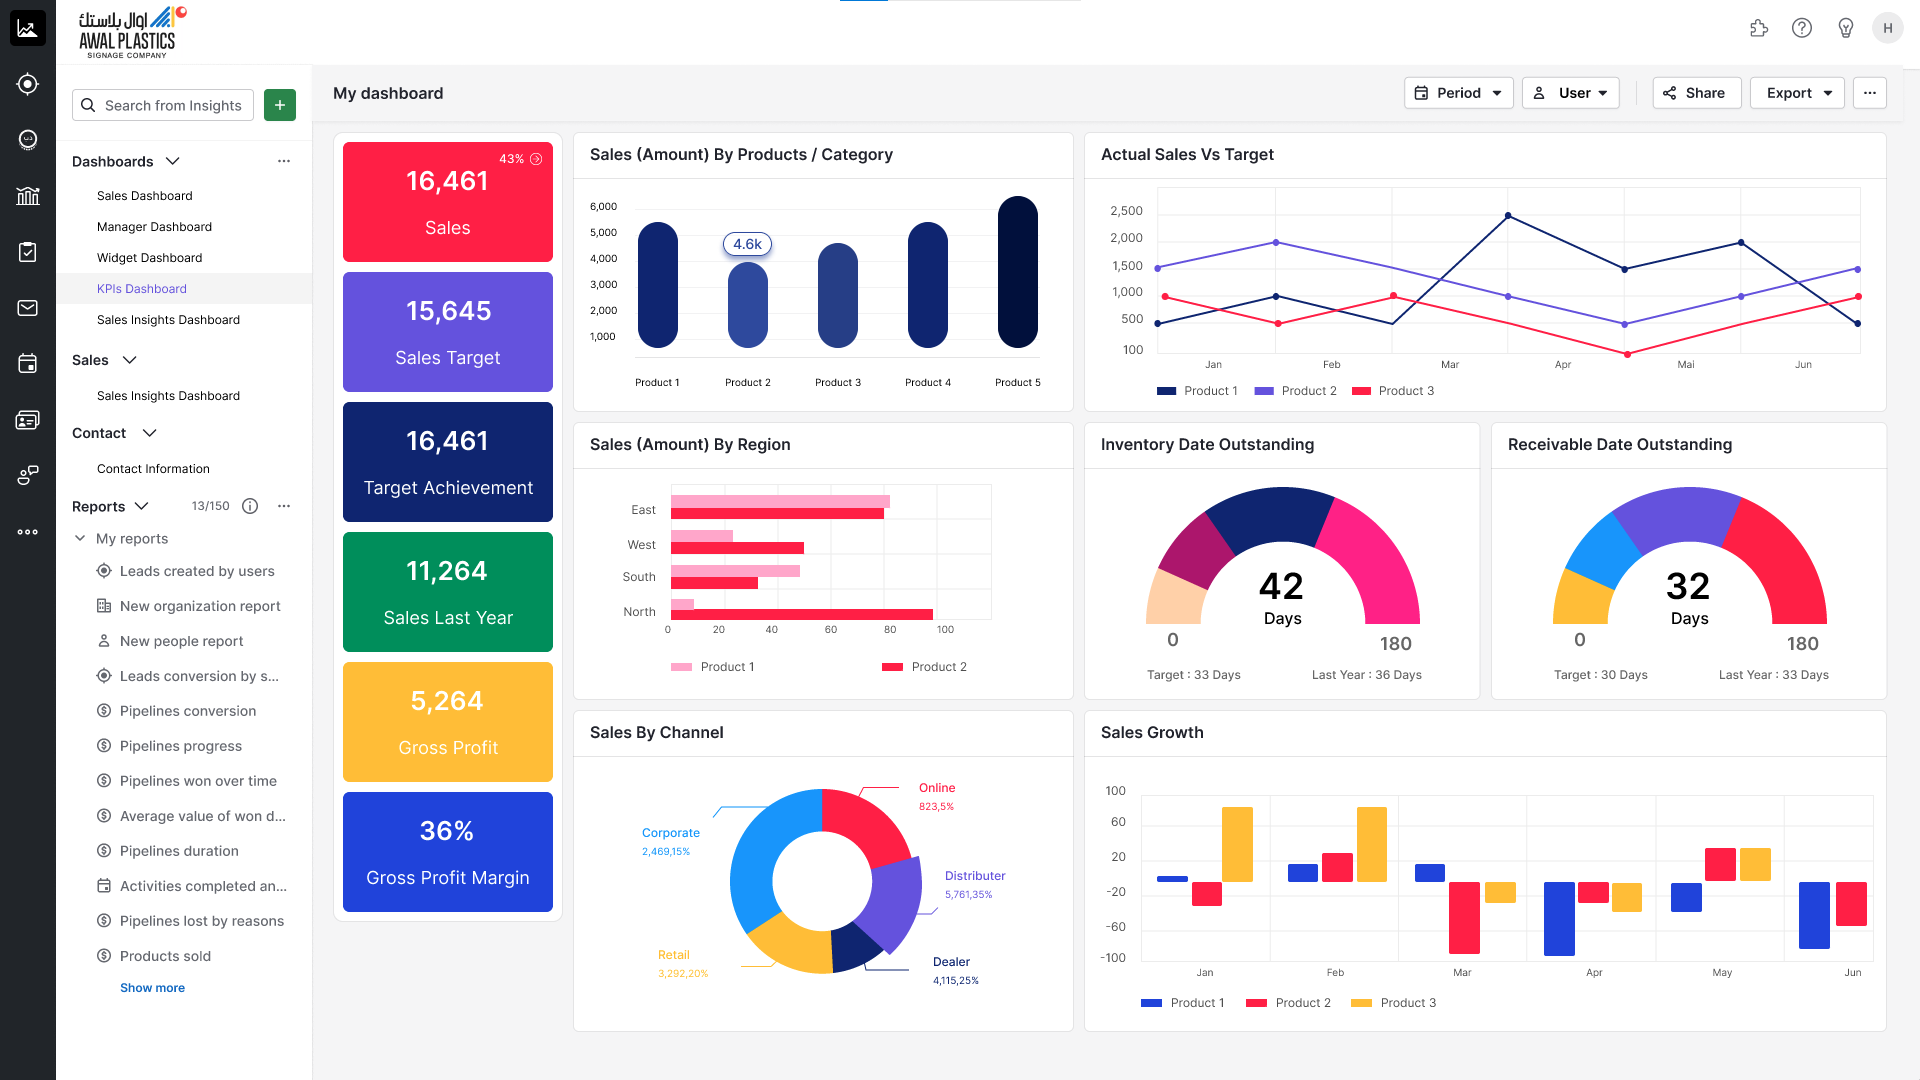
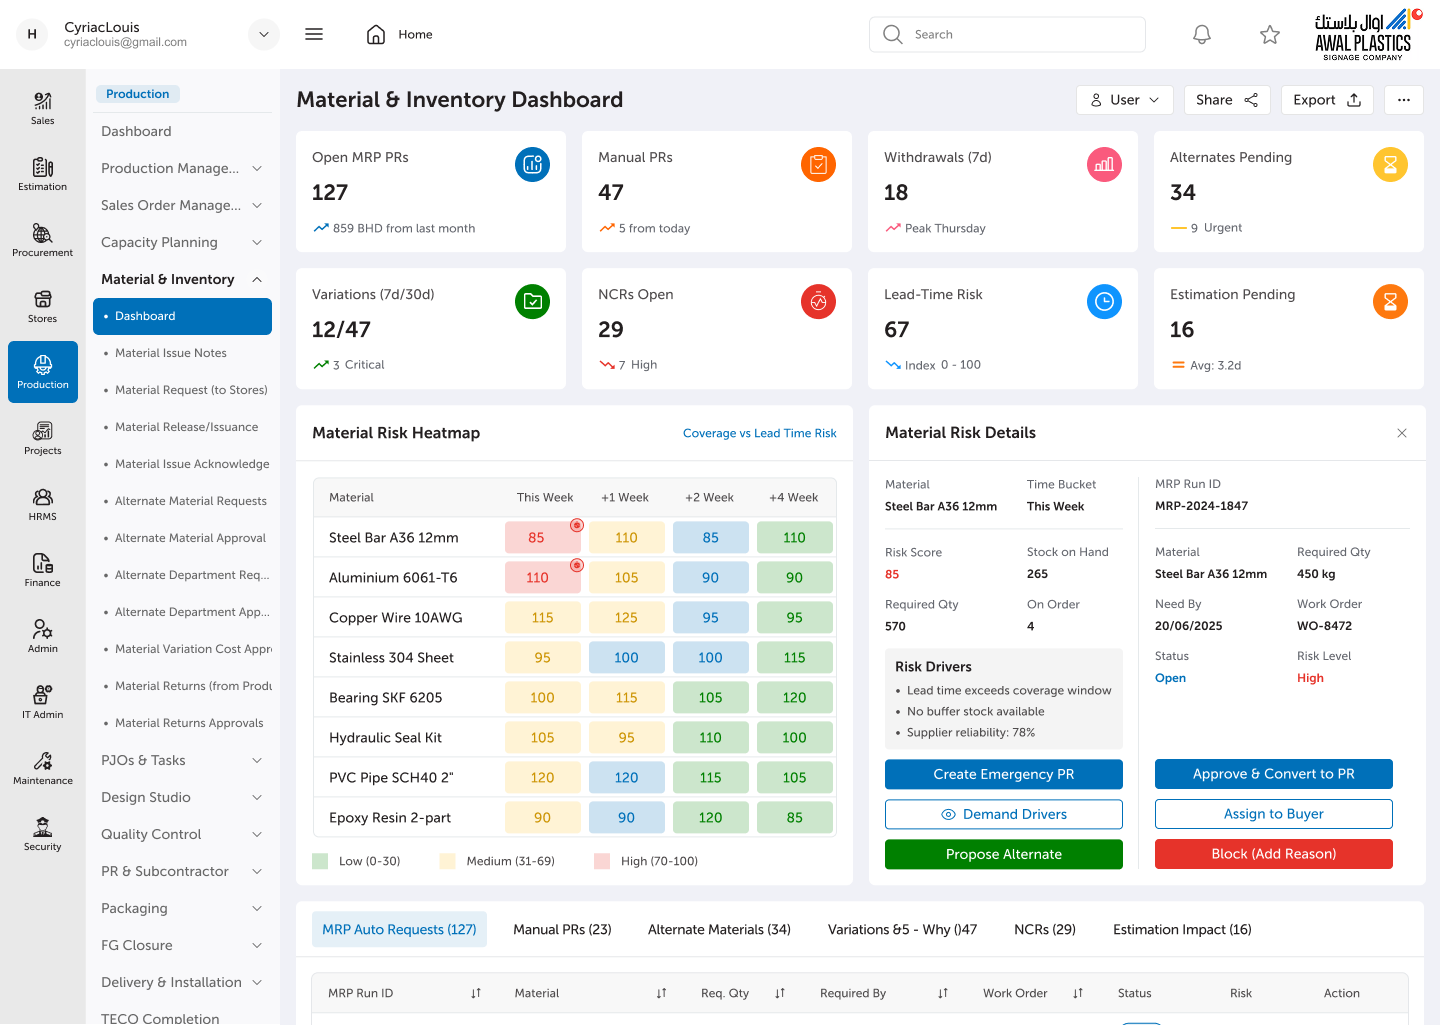
feat: create navigation, project lists, app entry, and hero components

diff --git a/my-project/src/components/hero.jsx b/my-project/src/components/hero.jsx
@@ -62,6 +62,9 @@ import trinity from "../assets/projects/trinity.png";
 import phoneix from "../assets/projects/phoneix.png";
 import winter from "../assets/projects/winter.png";
 
+// Project Preview Images - Web Development
+import aspirelens from "../assets/projects/aspirelenss.png";
+
 // Themes Config
 const themeStyles = {
     win98: {
@@ -508,15 +511,23 @@ export default function Hero() {
                         <div className="p-4 flex flex-col h-full bg-[#f8f8f8] text-black">
                             <div className="flex justify-between items-center text-xs font-mono border-b border-gray-300 pb-2 mb-4 select-none">
                                 <span>Select a portfolio category directory to open previews</span>
-                                <span className="text-gray-400">3 folders found</span>
+                                <span className="text-gray-400">4 folders found</span>
                             </div>
 
-                            <div className="grid grid-cols-3 gap-4 overflow-y-auto p-1 flex-1">
+                            <div className="grid grid-cols-2 sm:grid-cols-4 gap-4 overflow-y-auto p-1 flex-1">
                                 <ProjectFolderIcon
                                     label="UI_UX_Design"
                                     imgSrc={uiux}
                                     onClick={() => {
                                         setSelectedProjCat("uiux");
+                                        openApp("projDetail");
+                                    }}
+                                />
+                                <ProjectFolderIcon
+                                    label="Web_Development"
+                                    imgSrc={aspirelens}
+                                    onClick={() => {
+                                        setSelectedProjCat("webdev");
                                         openApp("projDetail");
                                     }}
                                 />
@@ -862,14 +873,22 @@ export default function Hero() {
                                 <div className="p-3 bg-[#f8f8f8] text-black">
                                     <div className="text-[10px] font-mono border-b border-gray-300 pb-1.5 mb-3 flex justify-between">
                                         <span>Select category directory:</span>
-                                        <span className="text-gray-400">3 folders</span>
+                                        <span className="text-gray-400">4 folders</span>
                                     </div>
-                                    <div className="grid grid-cols-3 gap-2.5">
+                                    <div className="grid grid-cols-2 sm:grid-cols-4 gap-2.5">
                                         <ProjectFolderIcon
                                             label="UI_UX"
                                             imgSrc={uiux}
                                             onClick={() => {
                                                 setSelectedProjCat("uiux");
+                                                openApp("projDetail");
+                                            }}
+                                        />
+                                        <ProjectFolderIcon
+                                            label="Web_Dev"
+                                            imgSrc={aspirelens}
+                                            onClick={() => {
+                                                setSelectedProjCat("webdev");
                                                 openApp("projDetail");
                                             }}
                                         />
@@ -1082,7 +1101,26 @@ export default function Hero() {
                                     </span>
                                     <div>
                                         <span className="font-bold text-xs block text-black">UI/UX Design Projects</span>
-                                        <span className="text-[9px] text-gray-500">12 Enterprise & SaaS Layouts</span>
+                                        <span className="text-[9px] text-gray-500">11 Enterprise & SaaS Layouts</span>
+                                    </div>
+                                </div>
+                                <span className="text-[10px] font-bold text-[#FF4D00]">Open ➔</span>
+                            </button>
+
+                            <button
+                                onClick={() => {
+                                    setSelectedProjCat("webdev");
+                                    openApp("projDetail");
+                                }}
+                                className="flex items-center justify-between p-2 bg-gray-50 hover:bg-gray-100 border border-black rounded text-left"
+                            >
+                                <div className="flex items-center gap-2">
+                                    <span className="w-8 h-8 rounded overflow-hidden border border-black shrink-0">
+                                        <img src={aspirelens} alt="Web Dev" className="w-full h-full object-cover" />
+                                    </span>
+                                    <div>
+                                        <span className="font-bold text-xs block text-black">Web Development</span>
+                                        <span className="text-[9px] text-gray-500">Live Client Platforms</span>
                                     </div>
                                 </div>
                                 <span className="text-[10px] font-bold text-[#FF4D00]">Open ➔</span>
@@ -1610,7 +1648,7 @@ const ProjectDetailsView = ({ cat, onClose, onOpenGallery, onExpandImage }) => {
                 { name: "Travel Guide (HAJJ Travel)", type: "Travel & Tourism App", url: "https://www.behance.net/gallery/254786435/Travel-Tourism" },
                 { name: "QODORA (Medical Insurance)", type: "Medical Insurance App Prototype", url: "https://www.behance.net/gallery/250527775/Qodora" },
                 { name: "Solar Energy Management", type: "Energy Management Dashboard", url: "https://www.behance.net/gallery/254784961/Solar-Energy-Management" },
-                { name: "Signex (Enterprise)", type: "Enterprise ERP Dashboard Case", url: "https://www.behance.net/gallery/237202087/Signex-ERP-App-UIUX-Product-Design-Case-Study" },
+                { name: "Awal Plastics (Enterprise)", type: "Enterprise ERP Dashboard Case", url: "https://www.behance.net/gallery/237202087/Signex-ERP-App-UIUX-Product-Design-Case-Study" },
                 { name: "Sports Reform", type: "Sports Performance Web Wires", url: "https://www.behance.net/gallery/205963977/Sports-Reform-website-ui-design" },
                 { name: "Guvi Learning Platform", type: "EdTech Learning Platform", url: "https://www.behance.net/gallery/240490215/Learning-Course-Landing-Page" },
                 { name: "Lightup Temple (Booking Pooja)", type: "SaaS Temple Booking Portal", url: "https://www.behance.net/gallery/205956803/Lightup-Temples-website-ui-design" },
@@ -1634,6 +1672,14 @@ const ProjectDetailsView = ({ cat, onClose, onOpenGallery, onExpandImage }) => {
             items: [
                 { name: "Winter Falls", type: "Low poly animation ", url: "https://drive.google.com/file/d/1bY_IJ9-j5qRLcUO70GuiEmp907Z-wI4F/view" },
                 { name: "Phoneix Bird", type: "Low poly animation ", url: "https://drive.google.com/file/d/1fvthm8s8gaUEzqzAE-cF-PADXcgndxEi/view" }
+            ]
+        },
+        webdev: {
+            title: "Web Development Projects",
+            desc: "Responsive web applications, modern front-end platforms, and live client websites engineered with high performance and interactive UX.",
+            cover: aspirelens,
+            items: [
+                { name: "Aspire Lens", type: "School Photography Platform", url: "https://www.aspirelens.com/" }
             ]
         }
     };
@@ -1720,7 +1766,7 @@ const CategoryGalleryView = ({ cat, onClose, onExpandImage }) => {
                 { name: "Travel Guide (HAJJ Travel)", type: "Travel & Tourism App", url: "https://www.behance.net/gallery/254786435/Travel-Tourism", img: hajj, tag: "Travel" },
                 { name: "QODORA (Medical Insurance)", type: "Medical Insurance App Prototype", url: "https://www.behance.net/gallery/250527775/Qodora", img: qodora, tag: "Medical" },
                 { name: "Solar Energy Management", type: "Energy Management Dashboard", url: "https://www.behance.net/gallery/254784961/Solar-Energy-Management", img: solar, tag: "Dashboard" },
-                { name: "Signex (Enterprise)", type: "Enterprise ERP Dashboard Case", url: "https://www.behance.net/gallery/237202087/Signex-ERP-App-UIUX-Product-Design-Case-Study", img: awalPlastics, tag: "ERP" },
+                { name: "Awal Plastics (Enterprise)", type: "Enterprise ERP Dashboard Case", url: "https://www.behance.net/gallery/237202087/Signex-ERP-App-UIUX-Product-Design-Case-Study", img: awalPlastics, tag: "ERP" },
                 { name: "Sports Reform", type: "Sports Performance Web Wires", url: "https://www.behance.net/gallery/205963977/Sports-Reform-website-ui-design", img: sports, tag: "Sports" },
                 { name: "Guvi Learning Platform", type: "EdTech Learning Platform", url: "https://www.behance.net/gallery/240490215/Learning-Course-Landing-Page", img: kuvi, tag: "EdTech" },
                 { name: "Lightup Temple (Booking Pooja)", type: "SaaS Temple Booking Portal", url: "https://www.behance.net/gallery/205956803/Lightup-Temples-website-ui-design", img: lightup, tag: "SaaS" },
@@ -1751,6 +1797,13 @@ const CategoryGalleryView = ({ cat, onClose, onExpandImage }) => {
             items: [
                 { name: "Phoneix Bird", type: "Blender Asset Pack Modeling", url: "https://drive.google.com/file/d/1fvthm8s8gaUEzqzAE-cF-PADXcgndxEi/view?usp=sharing", img: phoneix, tag: "3D Mesh" },
                 { name: "Winter Scene", type: "Low-Poly Environment Scene", url: "https://drive.google.com/file/d/1bY_IJ9-j5qRLcUO70GuiEmp907Z-wI4F/view?usp=sharing", img: winter, tag: "Renders" }
+            ]
+        },
+        webdev: {
+            title: "Web Development Projects",
+            desc: "Responsive web applications, modern front-end platforms, and live client websites engineered with high performance and interactive UX.",
+            items: [
+                { name: "Aspire Lens", type: "School Photography Platform", url: "https://www.aspirelens.com/", img: aspirelens, tag: "Live Site" }
             ]
         }
     };

diff --git a/my-project/src/components/nav.jsx b/my-project/src/components/nav.jsx
@@ -10,7 +10,7 @@ const SEARCH_INDEX = [
     { name: "Travel Guide (HAJJ Travel)", path: "https://www.behance.net/gallery/254786435/Travel-Tourism", category: "UI/UX Design", description: "Hajj travel guide mobile app screens & map workflow" },
     { name: "QODORA (Medical Insurance)", path: "https://www.behance.net/gallery/250527775/Qodora", category: "UI/UX Design", description: "Medical insurance prototype & checkout flows" },
     { name: "Solar Energy Management", path: "https://www.behance.net/gallery/254784961/Solar-Energy-Management", category: "UI/UX Design", description: "Battery tracking & solar generation metric dashboard" },
-    { name: "Signex (Enterprise)", path: "https://www.behance.net/gallery/237202087/Signex-ERP-App-UIUX-Product-Design-Case-Study", category: "UI/UX Design", description: "Enterprise ERP product and signage dashboard case study" },
+    { name: "Awal Plastics (Enterprise)", path: "https://www.behance.net/gallery/237202087/Signex-ERP-App-UIUX-Product-Design-Case-Study", category: "UI/UX Design", description: "Enterprise ERP product and signage dashboard case study" },
     { name: "Sports Reform", path: "https://www.behance.net/gallery/205963977/Sports-Reform-website-ui-design", category: "UI/UX Design", description: "Sports performance dashboard and wireframe layouts" },
     { name: "Guvi Learning Platform", path: "https://www.behance.net/gallery/240490215/Learning-Course-Landing-Page", category: "UI/UX Design", description: "EdTech course portal & registration landing page" },
     { name: "Lightup Temple (Booking Pooja)", path: "https://www.behance.net/gallery/205956803/Lightup-Temples-website-ui-design", category: "UI/UX Design", description: "SaaS booking engine for pooja and spiritual services" },
@@ -34,9 +34,13 @@ const SEARCH_INDEX = [
     { name: "Phoneix Bird", path: "https://drive.google.com/file/d/1fvthm8s8gaUEzqzAE-cF-PADXcgndxEi/view?usp=sharing", category: "3D Animation", description: "Blender asset pack 3D mesh modeling rendering" },
     { name: "Winter Environment", path: "https://drive.google.com/file/d/1bY_IJ9-j5qRLcUO70GuiEmp907Z-wI4F/view?usp=sharing", category: "3D Animation", description: "Low-poly environment render & Blender meshes" },
 
+    // Web Development
+    { name: "Aspire Lens", path: "https://www.aspirelens.com/", category: "Web Development", description: "Integrated online school photography platform and client portal" },
+
     // Pages & Resume
     { name: "Resume & Professional CV", path: "/resume", category: "Resume", description: "Retro resume reader app, skills index & pdf download" },
     { name: "UI/UX Projects Collection", path: "/uidesigns", category: "Gallery", description: "Explore full index of design files and casing" },
+    { name: "Web Development Projects", path: "/webdevelopment", category: "Gallery", description: "Explore full index of live web apps and client platforms" },
     { name: "Motion Graphic Showcase", path: "/motiondesigns", category: "Gallery", description: "Explore full vector animations and clips list" },
     { name: "3D Blender Work", path: "/3ddesigns", category: "Gallery", description: "Explore static Blender meshes and renders" },
 
@@ -58,6 +62,8 @@ const getCategoryDetails = (category) => {
             return { color: "text-[#ff4a7d] bg-[#ff4a7d]/10 border-[#ff4a7d]/30", icon: "🎬" };
         case "3D Animation":
             return { color: "text-[#ffcc00] bg-[#ffcc00]/10 border-[#ffcc00]/30", icon: "🧊" };
+        case "Web Development":
+            return { color: "text-[#10b981] bg-[#10b981]/10 border-[#10b981]/30", icon: "🌐" };
         case "Resume":
             return { color: "text-[#39ff14] bg-[#39ff14]/10 border-[#39ff14]/30", icon: "📄" };
         case "Skills":

diff --git a/my-project/src/projectslist/webdevelopment.jsx b/my-project/src/projectslist/webdevelopment.jsx
@@ -1,0 +1,48 @@
+import { Link } from "react-router-dom";
+import { useCursor } from "../context/CursorContext";
+import aspirelens from "../assets/projects/aspirelenss.png";
+import ArrowBackIcon from '@mui/icons-material/ArrowBack';
+
+const projects = [
+    {
+        name: "Aspire Lens",
+        link: "https://www.aspirelens.com/",
+        img: aspirelens,
+        category: "School Photography Platform"
+    }
+];
+
+export default function WebDevelopment() {
+    const { setCursorVariant } = useCursor();
+    return (
+        <section>
+            {/* PROJECT CARDS */}
+            <div className="flex flex-col items-center justify-center pt-24 sm:pt-24 md:pt-6">
+                <Link to="/" className="flex items-center gap-2"><ArrowBackIcon /> Go Back</Link><br />
+                <div>
+                    <h1 className="text-4xl md:text-6xl font-bold text-black dark:text-white text-center">My Casing</h1>
+                    <p className="mt-10 text-4xl md:text-4xl font-bold text-[#FF4D00] text-center">Web Development</p>
+                </div>
+                <div className="my-10 grid grid-cols-1 md:grid-cols-2 lg:grid-cols-3 xl:grid-cols-4 gap-10 w-full max-w-none px-6 md:px-16 justify-items-center">
+                    {projects.map((project, index) => (
+                        <a
+                            key={index}
+                            href={project.link}
+                            target="_blank"
+                            rel="noopener noreferrer"
+                            onMouseEnter={() => setCursorVariant("link")}
+                            onMouseLeave={() => setCursorVariant("default")}
+                            className="hover:cursor-none w-full flex justify-center"
+                        >
+                            <div className="bg-[#000000]/0 hover:bg-[#000000]/4 dark:hover:bg-[#ffffff]/10 p-4 rounded-lg hover:scale-105 transition-all flex flex-col items-center justify-center gap-2 w-full max-w-[400px]">
+                                <img className="w-full h-[220px] object-cover rounded-lg" src={project.img} alt={project.name} />
+                                <h2 className="text-2xl font-bold text-black dark:text-white text-center">{project.name}</h2>
+                                <p className="text-sm text-gray-600 dark:text-gray-300">{project.category}</p>
+                            </div>
+                        </a>
+                    ))}
+                </div>
+            </div>
+        </section>
+    );
+}

diff --git a/my-project/src/projectslist/uidesigns.jsx b/my-project/src/projectslist/uidesigns.jsx
@@ -4,8 +4,6 @@ import awalPlastics from "../assets/projects/awal.png";
 import caretaker from "../assets/projects/caretaker.png";
 import eedu from "../assets/projects/eeducation.png";
 import ehos from "../assets/projects/ehospital.png";
-import mist from "../assets/projects/mistnov.png";
-import algominds from "../assets/projects/algomind.png";
 import sports from "../assets/projects/sportsref.png";
 import lightup from "../assets/projects/lightup.png";
 import kuvi from "../assets/projects/kuvi.png";
@@ -13,15 +11,14 @@ import qodora from "../assets/projects/Qodora.png";
 import solar from "../assets/projects/solar.png";
 import hajj from "../assets/projects/hajj.png";
 import rido from "../assets/projects/rido.png";
-import aspirelens from "../assets/projects/aspirelenss.png";
 import ArrowBackIcon from '@mui/icons-material/ArrowBack';
 
 const projects = [
     {
-        name: "Aspire Lens",
-        link: "https://www.aspirelens.com/",
-        img: aspirelens,
-        category: "School Photography Platform"
+        name: "Awal Plastics (Enterprise)",
+        link: "https://www.behance.net/gallery/237202087/Signex-ERP-App-UIUX-Product-Design-Case-Study",
+        img: awalPlastics,
+        category: "Enterprise Platform"
     },
     {
         name: "Rido (Bike/Cab Booking)",
@@ -66,12 +63,6 @@ const projects = [
         category: "Energy Management Dashboard"
     },
     {
-        name: "Signex (Enterprise)",
-        link: "https://www.behance.net/gallery/237202087/Signex-ERP-App-UIUX-Product-Design-Case-Study",
-        img: awalPlastics,
-        category: "ERP / Enterprise Dashboard"
-    },
-    {
         name: "Sports Reform",
         link: "https://www.behance.net/gallery/205963977/Sports-Reform-website-ui-design",
         img: sports,
@@ -89,18 +80,6 @@ const projects = [
         img: lightup,
         category: "SaaS Booking Platform"
     },
-    {
-        name: "Mistnov (Hotel Booking) - Freelance",
-        link: "https://www.behance.net/gallery/205870419/Mistnov",
-        img: mist,
-        category: "Travel & Hospitality"
-    },
-    {
-        name: "Algominds (Code learning platform)",
-        link: "https://www.behance.net/gallery/208198007/Algominds",
-        img: algominds,
-        category: "Developer Education"
-    }
 ];
 
 export default function Works() {

diff --git a/my-project/src/App.jsx b/my-project/src/App.jsx
@@ -3,6 +3,7 @@ import './App.css'
 import Navigation from './components/nav'
 import Hero from './components/hero'
 import UIDesigns from './projectslist/uidesigns';
+import WebDevelopment from './projectslist/webdevelopment';
 import MotionDesigns from './projectslist/motiondesigns';
 import ThreeDDesigns from './projectslist/3ddesigns';
 import ViewResume from './viewresume'; // Retro Resume Reader App Route
@@ -27,6 +28,7 @@ function App() {
           <Routes>
             <Route path="/" element={<Hero />} />
             <Route path="/uidesigns" element={<UIDesigns />} />
+            <Route path="/webdevelopment" element={<WebDevelopment />} />
             <Route path="/motiondesigns" element={<MotionDesigns />} />
             <Route path="/3ddesigns" element={<ThreeDDesigns />} />
             <Route path="/about" element={<Navigate to="/" replace />} />
